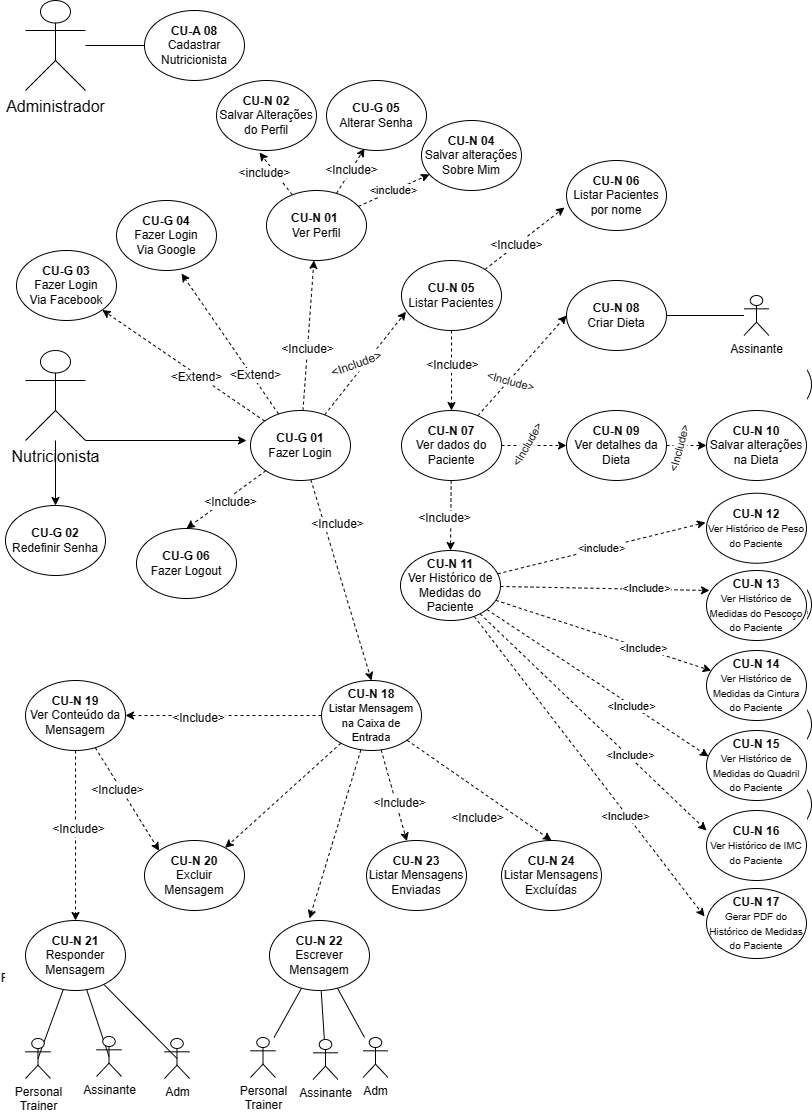
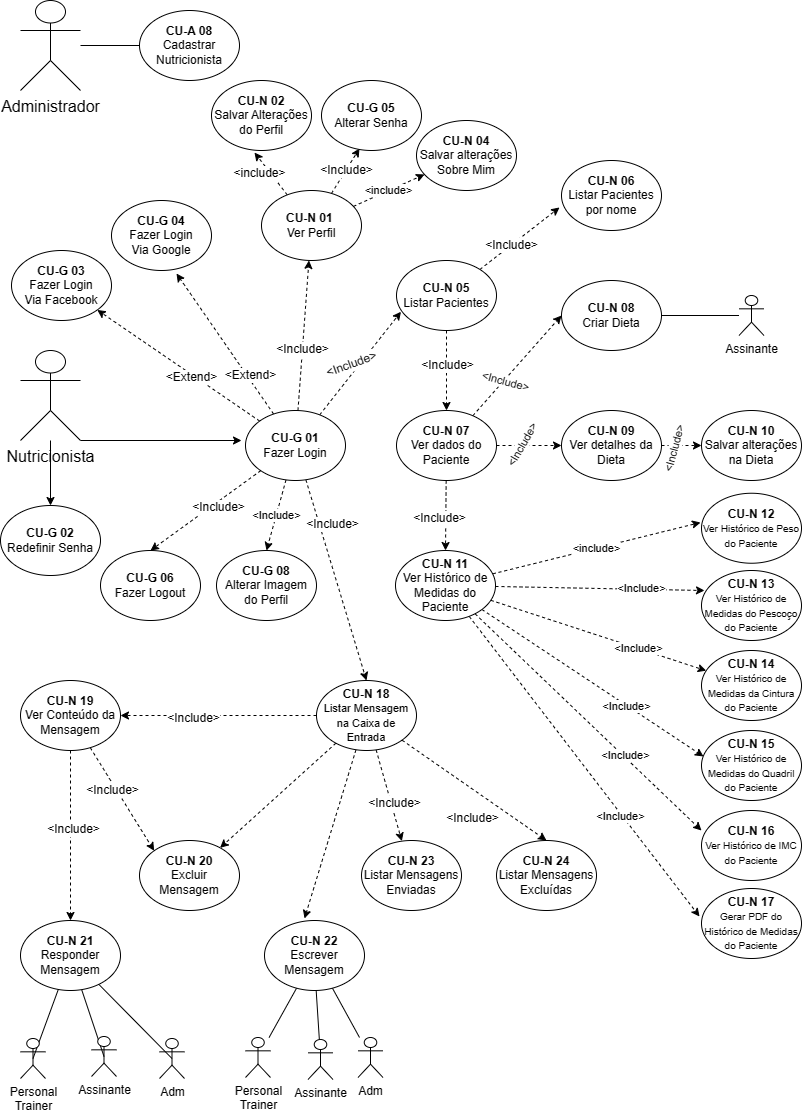
ajustes na alteracao da imagem e alteracao da data de nascimento no modulo perfil

diff --git a/app/perfilAssinante/perfil.js b/app/perfilAssinante/perfil.js
@@ -39,8 +39,9 @@ async function buscarDadosDoPerfil() {
             dataFormatada = "";
         } else {
             const data = new Date(resposta.dataNascimento);
-            const zeroEsquerda = (data.getMonth() + 1) < 10 ? '0' : '';
-            dataFormatada = zeroEsquerda + (data.getMonth() + 1) + '/' + data.getDate() + '/' + data.getFullYear()
+            const zeroEsquerdaMes = (data.getMonth() + 1) < 10 ? '0' : '';
+            const zeroEsquerdaDia = (data.getDate() + 1) < 10 ? '0' : '';
+            dataFormatada =  data.getFullYear() + '-' + zeroEsquerdaMes + (data.getMonth() + 1) + '-' + zeroEsquerdaDia + data.getDate();  
         }
         document.querySelector("#data-nascimento").value = dataFormatada;
         document.querySelector("#sexo").value = resposta.sexo;
@@ -55,7 +56,7 @@ async function salvarDadosDoPerfil(evento) {
         const token = seguranca.pegarToken();
 
         const nome = document.querySelector("#nome").value;
-        const dataNascimento = document.querySelector("#data-nascimento").value;
+        const dataNascimento = new Date(document.querySelector("#data-nascimento").value);
         const sexo = document.querySelector("#sexo").value;
         const altura = document.querySelector("#altura").value;
 
@@ -118,7 +119,7 @@ async function gravarImagem() {
         const inputFile = document.querySelector("#input-imagem-perfil");
         const res = await servicos.salvarImagem(token, inputFile.files[0]);
 
-        seguranca.atualizarFotoUsuarioLogado(res.imagem);
+        seguranca.atualizarImagemUsuarioLogado(res.imagem);
         mensagens.mostrarMensagemDeSucesso("Imagem alterada com sucesso!", true);
         window.location.reload();
     } catch (error) {

diff --git a/app/perfilAssinante/perfil-conteudo.html b/app/perfilAssinante/perfil-conteudo.html
@@ -35,7 +35,7 @@
                                     <label class="form-label fw-semibold" for="data-nascimento">Data de
                                         Nascimento</label>
                                     <div class="input-group input-group-sm">
-                                        <input class="form-control" type="datetime" id="data-nascimento"
+                                        <input class="form-control" type="date" id="data-nascimento"
                                             name="data-nascimento">
                                     </div>
                                 </div>
@@ -65,7 +65,6 @@
                 </div>
             </div>
         </div>
-        
         <div class="col-12 col-sm-7 pt-3 pt-sm-0">
             <div class="card shadow">
                 <div class="card-body">

diff --git a/api/controllers/usuariosController.js b/api/controllers/usuariosController.js
@@ -31,10 +31,12 @@ async function alterarImagem(req, res) {
     // #swagger.description = 'endpoint para alterar a imagem.'
     // #swagger.security = [] 
 
-    Usuario.validarAlteracaoDaImagem(req.files);
-
     const tipoDaImagem = req.files.imagem.name.split('.').pop();
+
+    Usuario.validarAlteracaoDaImagem(req.files, tipoDaImagem);
+    
     const nomeDaImagem = `${req.usuario.nome}-${req.usuario.idUsuario}.${tipoDaImagem}`;
+    
 
     fs.writeFile("imagens/imagem-perfil/" + nomeDaImagem, req.files.imagem.data, async (err) => {
         if (err) {

diff --git a/api/model/usuario.js b/api/model/usuario.js
@@ -36,10 +36,15 @@ function validarAlteracaoDeSenha(senhaAtual, novaSenha) {
     }
 }
 
-function validarAlteracaoDaImagem(files) {
+function validarAlteracaoDaImagem(files, tipoDaImagem) {
     if(!files) {
         
         throw { mensagem: "Não é possível usar uma foto vazia", interna: true }
+    }
+
+    if(tipoDaImagem !== "jpg" && tipoDaImagem !== "png" && tipoDaImagem && "gif" && tipoDaImagem !== "jpeg") {
+        
+        throw { mensagem: "Formato da imagem incorreto. Formatos validos: .jpg, .png, .gif e .jpeg", interna: true }
     }
 }
 

diff --git a/api/controllers/assinantesController.js b/api/controllers/assinantesController.js
@@ -94,6 +94,7 @@ async function buscarDadosDoPerfil(req, res) {
 
     const dadosDoAssinante = await repositorioDeAssinantes.buscarDadosDoPerfilDoAssinantePorId(req.usuario.idUsuario);
 
+
     res.send({
         idAssinante: dadosDoAssinante.idAssinante,
         imagem: servicoDeArquivosEstaticos.construirCaminhoParaImagem(dadosDoAssinante.imagem),

diff --git a/api/model/assinante.js b/api/model/assinante.js
@@ -38,6 +38,7 @@ function validarAlteracaoDoPerfil(nome) {
     if (!nome) {
         throw { mensagem: "O nome do assinante precisa ser definido", interna: true };
     }
+
 }
 
 function validarAlteracaoDeStatus(novoStatus) {
